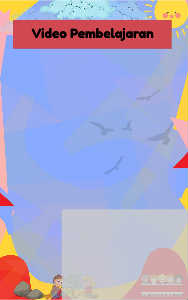
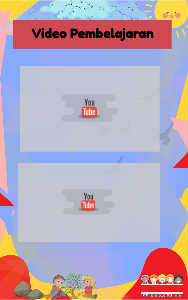
test video 4

diff --git a/mobile/javascript/config.js b/mobile/javascript/config.js
@@ -136,7 +136,7 @@ btnTableOfContent:["btnBookMark"]
 };
 	
 	
-	;bookConfig.BookTemplateName="metro";bookConfig.loadingCaptionColor="#DDDDDD";bookConfig.loadingBackground="#323232";bookConfig.appLogoOpenWindow="Blank";bookConfig.logoHeight="40";bookConfig.logoPadding="0";bookConfig.logoTop="0";bookConfig.toolbarColor="#2E2E2E";bookConfig.iconColor="#B9B9B9";bookConfig.pageNumColor="#000000";bookConfig.iconFontColor="#B9B9B9";bookConfig.toolbarAlwaysShow="No";bookConfig.InstructionsButtonVisible="Show";bookConfig.showInstructionOnStart="No";bookConfig.QRCode="Hide";bookConfig.HomeButtonVisible="Hide";bookConfig.HomeURL="%first page%";bookConfig.enablePageBack="Show";bookConfig.ShareButtonVisible="Show";bookConfig.EmailButtonVisible="Show";bookConfig.btnShareWithEmailBody="{link}";bookConfig.ThumbnailsButtonVisible="Show";bookConfig.thumbnailColor="#333333";bookConfig.thumbnailAlpha="70";bookConfig.BookMarkButtonVisible="Hide";bookConfig.TableOfContentButtonVisible="Show";bookConfig.bookmarkBackground="#000000";bookConfig.bookmarkFontColor="#cccccc";bookConfig.SearchButtonVisible="Show";bookConfig.leastSearchChar="3";bookConfig.searchFontColor="#FFFFFF";bookConfig.searchKeywordFontColor="#FFB000";bookConfig.searchHightlightColor="#ffff00";bookConfig.SelectTextButtonVisible="Show";bookConfig.PrintButtonVisible="Show";bookConfig.BackgroundSoundButtonVisible="Show";bookConfig.FlipSound="Yes";bookConfig.BackgroundSoundLoop="-1";bookConfig.AutoPlayButtonVisible="Show";bookConfig.autoPlayAutoStart="No";bookConfig.autoPlayDuration="9";bookConfig.autoPlayLoopCount="1";bookConfig.ZoomButtonVisible="Show";bookConfig.minZoomWidth="700";bookConfig.minZoomHeight="518";bookConfig.mouseWheelFlip="Yes";bookConfig.DownloadButtonVisible="Hide";bookConfig.PhoneButtonVisible="Hide";bookConfig.AnnotationButtonVisible="Hide";bookConfig.FullscreenButtonVisible="Show";bookConfig.bgBeginColor="#fbfcfd";bookConfig.bgEndColor="#eee9de";bookConfig.bgMRotation="-90";bookConfig.backGroundImgURL="../files/mobile-ext/backGroundImgURL.jpg";bookConfig.backgroundPosition="tile";bookConfig.backgroundOpacity="100";bookConfig.LeftShadowWidth="90";bookConfig.LeftShadowAlpha="0.6";bookConfig.RightShadowWidth="55";bookConfig.RightShadowAlpha="0.6";bookConfig.ShowTopLeftShadow="Yes";bookConfig.HardPageEnable="No";bookConfig.hardCoverBorderWidth="8";bookConfig.borderColor="#572F0D";bookConfig.outerCoverBorder="Yes";bookConfig.cornerRound="8";bookConfig.leftMarginOnMobile="0";bookConfig.topMarginOnMobile="0";bookConfig.rightMarginOnMobile="0";bookConfig.bottomMarginOnMobile="0";bookConfig.pageBackgroundColor="#E8E8E8";bookConfig.flipshortcutbutton="Show";bookConfig.BindingType="side";bookConfig.RightToLeft="No";bookConfig.flippingTime="0.6";bookConfig.retainBookCenter="Yes";bookConfig.FlipStyle="Flip";bookConfig.autoDoublePage="Yes";bookConfig.isTheBookOpen="No";bookConfig.thicknessWidthType="Thinner";bookConfig.thicknessColor="#ffffff";bookConfig.showThicknessOnMobile="No";bookConfig.topMargin="10";bookConfig.bottomMargin="10";bookConfig.leftMargin="10";bookConfig.rightMargin="10";bookConfig.maxWidthToSmallMode="400";bookConfig.maxHeightToSmallMode="300";bookConfig.leftRightPnlShowOption="None";bookConfig.highDefinitionConversion="yes";bookConfig.LargeLogoPosition="top-left";bookConfig.LargeLogoTarget="Blank";bookConfig.isFixLogoSize="No";bookConfig.logoFixWidth="0";bookConfig.logoFixHeight="0";bookConfig.updateURLForPage="No";bookConfig.LinkDownColor="#800080";bookConfig.LinkAlpha="0.2";bookConfig.OpenWindow="Blank";bookConfig.showLinkHint="No";bookConfig.MidBgColor="#324421";bookConfig.searchFontColor="#FFFDDD";bookConfig.totalPageCount=1;bookConfig.largePageWidth=1024;bookConfig.largePageHeight=1633;;bookConfig.securityType="1";bookConfig.bookTitle="TESTING 2";bookConfig.bookmarkCR="f61462b374051012f47b1b09f35678054cd55d56";bookConfig.productName="Flip PDF Professional";bookConfig.homePage="http://www.flipbuilder.com";bookConfig.searchPositionJS="javascript/text_position[1].js";bookConfig.searchTextJS="javascript/search_config.js";bookConfig.normalPath="../files/mobile/";bookConfig.largePath="../files/mobile/";bookConfig.thumbPath="../files/thumb/";bookConfig.userListPath="../files/extfiles/users.js";var language = [];;function orgt(s){ return binl2hex(core_hx(str2binl(s), s.length * chrsz));};; var pageEditor = {"setting":{"annoPlaying":"true","shoppingCartHTML":"false","shoppingCartOptinon":{"type":"PayPal","paypal":"","method":"POST","sandbox":"false","address":"","theme":"","body":"Hi xxx<br/>   I\'m going to buy below product(s):<br/>    ${shopping}<br/>Full Name","showPrice":"true","showTime":"true"}}, "pageAnnos":[[{"annotype":"com.mobiano.flipbook.pageeditor.TAnnoYouTube","annoId":"202131942284299","alpha":"1","moviePlayTriggerEvt":"none","movieStopTriggerEvt":"EVT_PageOffView","location":{"tannoName":"youtube1","x":"0.10423197490050634","y":"0.22059352666950638","width":"0.7425969027246374","height":"0.2861450579095759","rotation":"0","reflection":"false","reflectionType":"0","reflectionAlpha":"0","pageWidth":"1060.01","pageHeight":"1690.32"},"hint":{"hintShapeColor":"0","hintShapeColor2":"8388736","hintShapeAlpha":"1","hintW":"0","hintH":"0","hintAuto":"true","hintShapeType":"2","text":""},"shadow":{"hasDropShadow":"false","shadowDistance":"4","shadowAngle":"270","shadowColor":"0","shadowAlpha":"0.6","shadowBlurX":"4","shadowBlurY":"4"},"cpName":"fbp","className":"com.mobiano.flipbook.youtube.TAnnoYouTube","videoId":"uVlFKGyznyk","playerParameters":"autoplay=0\&loop=0"}]]}; bookConfig.isFlipPdf=true;
+	;bookConfig.BookTemplateName="metro";bookConfig.loadingCaptionColor="#DDDDDD";bookConfig.loadingBackground="#323232";bookConfig.appLogoOpenWindow="Blank";bookConfig.logoHeight="40";bookConfig.logoPadding="0";bookConfig.logoTop="0";bookConfig.toolbarColor="#2E2E2E";bookConfig.iconColor="#B9B9B9";bookConfig.pageNumColor="#000000";bookConfig.iconFontColor="#B9B9B9";bookConfig.toolbarAlwaysShow="No";bookConfig.InstructionsButtonVisible="Show";bookConfig.showInstructionOnStart="No";bookConfig.QRCode="Hide";bookConfig.HomeButtonVisible="Hide";bookConfig.HomeURL="%first page%";bookConfig.enablePageBack="Show";bookConfig.ShareButtonVisible="Show";bookConfig.EmailButtonVisible="Show";bookConfig.btnShareWithEmailBody="{link}";bookConfig.ThumbnailsButtonVisible="Show";bookConfig.thumbnailColor="#333333";bookConfig.thumbnailAlpha="70";bookConfig.BookMarkButtonVisible="Hide";bookConfig.TableOfContentButtonVisible="Show";bookConfig.bookmarkBackground="#000000";bookConfig.bookmarkFontColor="#cccccc";bookConfig.SearchButtonVisible="Show";bookConfig.leastSearchChar="3";bookConfig.searchFontColor="#FFFFFF";bookConfig.searchKeywordFontColor="#FFB000";bookConfig.searchHightlightColor="#ffff00";bookConfig.SelectTextButtonVisible="Show";bookConfig.PrintButtonVisible="Show";bookConfig.BackgroundSoundButtonVisible="Show";bookConfig.FlipSound="Yes";bookConfig.BackgroundSoundLoop="-1";bookConfig.AutoPlayButtonVisible="Show";bookConfig.autoPlayAutoStart="No";bookConfig.autoPlayDuration="9";bookConfig.autoPlayLoopCount="1";bookConfig.ZoomButtonVisible="Show";bookConfig.minZoomWidth="700";bookConfig.minZoomHeight="518";bookConfig.mouseWheelFlip="Yes";bookConfig.DownloadButtonVisible="Hide";bookConfig.PhoneButtonVisible="Hide";bookConfig.AnnotationButtonVisible="Hide";bookConfig.FullscreenButtonVisible="Show";bookConfig.bgBeginColor="#fbfcfd";bookConfig.bgEndColor="#eee9de";bookConfig.bgMRotation="-90";bookConfig.backGroundImgURL="files/mobile-ext/backGroundImgURL.jpg";bookConfig.backgroundPosition="tile";bookConfig.backgroundOpacity="100";bookConfig.LeftShadowWidth="90";bookConfig.LeftShadowAlpha="0.6";bookConfig.RightShadowWidth="55";bookConfig.RightShadowAlpha="0.6";bookConfig.ShowTopLeftShadow="Yes";bookConfig.HardPageEnable="No";bookConfig.hardCoverBorderWidth="8";bookConfig.borderColor="#572F0D";bookConfig.outerCoverBorder="Yes";bookConfig.cornerRound="8";bookConfig.leftMarginOnMobile="0";bookConfig.topMarginOnMobile="0";bookConfig.rightMarginOnMobile="0";bookConfig.bottomMarginOnMobile="0";bookConfig.pageBackgroundColor="#E8E8E8";bookConfig.flipshortcutbutton="Show";bookConfig.BindingType="side";bookConfig.RightToLeft="No";bookConfig.flippingTime="0.6";bookConfig.retainBookCenter="Yes";bookConfig.FlipStyle="Flip";bookConfig.autoDoublePage="Yes";bookConfig.isTheBookOpen="No";bookConfig.thicknessWidthType="Thinner";bookConfig.thicknessColor="#ffffff";bookConfig.showThicknessOnMobile="No";bookConfig.topMargin="10";bookConfig.bottomMargin="10";bookConfig.leftMargin="10";bookConfig.rightMargin="10";bookConfig.maxWidthToSmallMode="400";bookConfig.maxHeightToSmallMode="300";bookConfig.leftRightPnlShowOption="None";bookConfig.highDefinitionConversion="yes";bookConfig.LargeLogoPosition="top-left";bookConfig.LargeLogoTarget="Blank";bookConfig.isFixLogoSize="No";bookConfig.logoFixWidth="0";bookConfig.logoFixHeight="0";bookConfig.updateURLForPage="No";bookConfig.LinkDownColor="#800080";bookConfig.LinkAlpha="0.2";bookConfig.OpenWindow="Blank";bookConfig.showLinkHint="No";bookConfig.MidBgColor="#720893";bookConfig.searchFontColor="#FFFDDD";bookConfig.totalPageCount=1;bookConfig.largePageWidth=1024;bookConfig.largePageHeight=1633;;bookConfig.securityType="1";bookConfig.bookTitle="TESTING 3";bookConfig.bookmarkCR="d12c15bd27e18b9574e3b0c1149b6920c7a3b05f";bookConfig.productName="Flip PDF Professional";bookConfig.homePage="http://www.flipbuilder.com";bookConfig.searchPositionJS="mobile/javascript/text_position[1].js";bookConfig.searchTextJS="mobile/javascript/search_config.js";bookConfig.normalPath="files/mobile/";bookConfig.largePath="files/mobile/";bookConfig.thumbPath="files/thumb/";bookConfig.userListPath="files/extfiles/users.js";bookConfig.UIBaseURL='mobile/';var language = [];;function orgt(s){ return binl2hex(core_hx(str2binl(s), s.length * chrsz));};; var pageEditor = {"setting":{"annoPlaying":"true","shoppingCartHTML":"false","shoppingCartOptinon":{"type":"PayPal","paypal":"","method":"POST","sandbox":"false","address":"","theme":"","body":"Hi xxx<br/>   I\'m going to buy below product(s):<br/>    ${shopping}<br/>Full Name","showPrice":"true","showTime":"true"}}, "pageAnnos":[[{"annotype":"com.mobiano.flipbook.pageeditor.TAnnoYouTube","annoId":"202131947272898","alpha":"1","moviePlayTriggerEvt":"none","movieStopTriggerEvt":"EVT_PageOffView","location":{"tannoName":"youtube1","x":"0.10377260591881209","y":"0.22066827582942874","width":"0.7425969027246374","height":"0.2861450579095759","rotation":"0","reflection":"false","reflectionType":"0","reflectionAlpha":"0","pageWidth":"1060.01","pageHeight":"1690.32"},"hint":{"hintShapeColor":"0","hintShapeColor2":"8388736","hintShapeAlpha":"1","hintW":"0","hintH":"0","hintAuto":"true","hintShapeType":"2","text":""},"shadow":{"hasDropShadow":"false","shadowDistance":"4","shadowAngle":"270","shadowColor":"0","shadowAlpha":"0.6","shadowBlurX":"4","shadowBlurY":"4"},"cpName":"fbp","className":"com.mobiano.flipbook.youtube.TAnnoYouTube","videoId":"uVlFKGyznyk","playerParameters":"autoplay=0\&loop=0"},{"annotype":"com.mobiano.flipbook.pageeditor.TAnnoYouTube","annoId":"202131947272035","alpha":"1","moviePlayTriggerEvt":"EVT_PageViewed","movieStopTriggerEvt":"EVT_PageOffView","location":{"tannoName":"youtube1","x":"0.09528211998000019","y":"0.5425008282455394","width":"0.7545261702382862","height":"0.26370230826960916","rotation":"0","reflection":"false","reflectionType":"0","reflectionAlpha":"0","pageWidth":"1060.01","pageHeight":"1690.32"},"hint":{"hintShapeColor":"0","hintShapeColor2":"8388736","hintShapeAlpha":"1","hintW":"0","hintH":"0","hintAuto":"true","hintShapeType":"2","text":""},"shadow":{"hasDropShadow":"false","shadowDistance":"4","shadowAngle":"270","shadowColor":"0","shadowAlpha":"0.6","shadowBlurX":"4","shadowBlurY":"4"},"cpName":"fbp","className":"com.mobiano.flipbook.youtube.TAnnoYouTube","videoId":"uVlFKGyznyk","playerParameters":"autoplay=0\&loop=0"}]]}; bookConfig.isFlipPdf=false;
 	bookConfig.hideMiniFullscreen=true;
 	if(language&&language.length>0&&language[0]&&language[0].language){
 		bookConfig.language=language[0].language;

diff --git a/index.html b/index.html
@@ -3,123 +3,50 @@
     version="XHTML+RDFa 1.0"
     xmlns:og="http://ogp.me/ns#"
     xml:lang="en">
-<!-- 
-    Smart developers always View Source. 
-    
-    This application was built using Adobe Flex, an open source framework
-    for building rich Internet applications that get delivered via the
-    Flash Player or to desktops via Adobe AIR. 
-    
-    Learn more about Flex at http://flex.org 
-    // -->
 <head>
+<meta http-equiv="X-UA-Compatible" content="IE=edge" />
 <meta http-equiv="Content-Type" content="text/html; charset=utf-8" />
-<title>TESTING 2</title>
+<meta name="viewport" content="width=device-width, initial-scale=1.0, minimum-scale=1.0, maximum-scale=1.0, user-scalable=no" />
+<meta name="apple-mobile-web-app-capable" content="yes" />
+<meta name="monitor-signature" content="monitor:player:html5" />
+<meta name="apple-mobile-web-app-status-bar-style" content="black" />
+ 
 <meta name="Keywords" content="" />
-<meta name="Description" content="TESTING 2" />
+<meta name="Description" content="TESTING 3" />
 <meta name="Generator" content="Flip PDF Professional 2.4.9.18 at http://www.flipbuilder.com" />
-<meta name="medium" content="video"/> 
+<link rel="image_src" href="files/shot.png" />
+ <link rel="shortcut icon" href="files/thumb/1.jpg" />
+<link rel="apple-touch-icon" href="files/thumb/1.jpg" />
+<meta name="og:image" content="files/shot.png" />
+<meta property="og:image" content="files/shot.png" />
+<title>TESTING 3</title>
 
-<meta property="og:image" content="files/shot.png"/>
-<meta property="og:title" content="TESTING 2"/> 
-<meta property="og:description" content="TESTING 2" />
-<meta property="og:video" content="book.swf"/> 
-<meta property="og:video:height" content="300"/> 
-<meta property="og:video:width" content="420"/> 
-<meta property="og:video:type" content="application/x-shockwave-flash"/> 
+<link rel="stylesheet" type="text/css" href="mobile/style/style.css" />
+<link rel="stylesheet" type="text/css" href="mobile/style/player.css" />
+<link rel="stylesheet" type="text/css" href="mobile/style/phoneTemplate.css" />
+<link rel="stylesheet" type="text/css" href="mobile/style/template.css" />
+<script type="text/javascript" src="mobile/javascript/jquery-1.9.1.min.js"></script>
 
-<meta name="video_height" content="300"/> 
-<meta name="video_width" content="420"/> 
-<meta name="video_type" content="application/x-shockwave-flash"/> 
-<meta name="og:image" content="files/shot.png"/>
+<script type="text/javascript" src="mobile/javascript/config.js"></script>
 
-<link rel="image_src" href="files/shot.png"/>
- <link rel="apple-touch-icon" href="files/thumb/1.jpg" />
-<!-- Include CSS to eliminate any default margins/padding and set the height of the html element and 
-       the body element to 100%, because Firefox, or any Gecko based browser, interprets percentage as 
-    the percentage of the height of its parent container, which has to be set explicitly.  Initially, 
-    don't display flashContent div so it won't show if JavaScript disabled.
-  -->
 
-<style type="text/css" media="screen">
-/*<![CDATA[*/
-html,
-body
-{
- height:100%;
- margin: 0px;
- overflow:hidden;
-}
 
-body
-{
- margin:0;
- padding:0;
- overflow:auto;
- text-align:center;
- background-color: #ffffff;
-}
-
-#flashContent
-{
- display:none;
-}
-/*]]>*/
-</style>
-<script type="text/javascript" src="js/swfobject.js"></script>
-<script type="text/javascript" src="js/fbscript.js"></script>
-
-</head>
+</head>	
 <body>
-<!-- SWFObject's dynamic embed method replaces this alternative HTML content with Flash content when enough 
-    JavaScript and Flash plug-in support is available. The div is initially hidden so that it doesn't show
-    when JavaScript is disabled.
-  -->
-  
-<div id="flashContent">
-<p>To view this page ensure that Adobe Flash Player version 10.0.0
-or greater is installed.</p>
- Besides, it's possible to <a href='./files/basic-html/index.html'>view a simplified version of the flippdf book on any device</a>,
-or you can view flippdf <a href='mobile/index.html'>mobile version</a>
- <script>
- 	function showUserAgent(){
-		var str = navigator.userAgent;
-		var p = document.createElement("p");
-		p.innerHTML = str;
-		p.className = "gray";
-		document.getElementById("flashContent").appendChild(p);
-	}
-	
-	window.setTimeout(showUserAgent, 200);
-</script>
-</div>
-<noscript><div><object classid=
-"clsid:D27CDB6E-AE6D-11cf-96B8-444553540000" width="100%" height=
-"100%" id="FlipBookBuilder"><param name="movie" value="book.swf" />
-<param name="quality" value="high" />
-<param name="bgcolor" value="#ffffff" />
-<param name="allowScriptAccess" value="always" />
-<param name="allowFullScreen" value="true" />
-<param name="allowFullScreenInteractive" value="true" />
-<!--[if !IE]>-->
-<object type="application/x-shockwave-flash" data="book.swf" width=
-"100%" height="100%"><param name="quality" value="high" />
-<param name="bgcolor" value="#ffffff" />
-<param name="allowScriptAccess" value="always" />
-<param name="allowFullScreen" value="true" />
-<param name="allowFullScreenInteractive" value="true" />
-<param name="wmode" value="transparent" />
-<!--<![endif]--><!--[if gte IE 6]>-->
-<p>Either scripts and active content are not permitted to run or
-Adobe Flash Player version 10.0.0 or greater is not installed.</p>
-<!--<![endif]--> 
-<a href="http://www.adobe.com/go/getflashplayer">Get Adobe Flash Player</a> <br/> <br/>
-Besides, it's possible to <a href='./files/basic-html/index.html'>view a simplified version of the flippdf book on any device</a>,
-or you can view flippdf <a href='mobile/index.html'>mobile version</a>
-<!--[if !IE]>--></object> <!--<![endif]--></object></div></noscript>
-<script type="text/javascript" src="js/ActionHtmlWindow.js"></script>
-<script type="text/javascript" src="js/fbendscript.js"></script>
+	<script type="text/javascript" src="mobile/javascript/search_config.js"></script><script type="text/javascript" src="mobile/javascript/bookmark_config.js"></script>
+<script type="text/javascript" src="mobile/javascript/LoadingJS.js"></script>
 
+<script type="text/javascript" src="mobile/javascript/main.js"></script>
+
+
+<script type="text/javascript">
+
+		
+	var sendvisitinfo = function(type,page){};
+	
+</script>
+
+<script type="text/javascript"></script>
 <noscript><div><hr/><ul><li><a href="files/basic-html/index.html">Pages</a></li></ul><hr style="width:80%"/></div></noscript>
 </body>
 </html>

diff --git a/files/basic-html/index.html b/files/basic-html/index.html
@@ -4,7 +4,7 @@
 				<meta name="robots" content="all"/>
         <meta name="description" content="description">
         <meta name="keywords" content="">
-        <title>Page 1 - TESTING 2</title>
+        <title>Page 1 - TESTING 3</title>
 <style type="text/css">
 <!--
 body {
@@ -141,7 +141,7 @@ function MM_swapImage() { //v3.0
   </div>
   <div id="content">
      <div id="content-top">
-        <div id="content-top1">Page 1 - TESTING 2</div>
+        <div id="content-top1">Page 1 - TESTING 3</div>
         <div id="content-top2">P. 1</div>
      </div>
      <div id="content-middle">

diff --git a/files/basic-html/page1.html b/files/basic-html/page1.html
@@ -4,7 +4,7 @@
 				<meta name="robots" content="all"/>
         <meta name="description" content="description">
         <meta name="keywords" content="">
-        <title>Page 1 - TESTING 2</title>
+        <title>Page 1 - TESTING 3</title>
 <style type="text/css">
 <!--
 body {
@@ -141,7 +141,7 @@ function MM_swapImage() { //v3.0
   </div>
   <div id="content">
      <div id="content-top">
-        <div id="content-top1">Page 1 - TESTING 2</div>
+        <div id="content-top1">Page 1 - TESTING 3</div>
         <div id="content-top2">P. 1</div>
      </div>
      <div id="content-middle">
